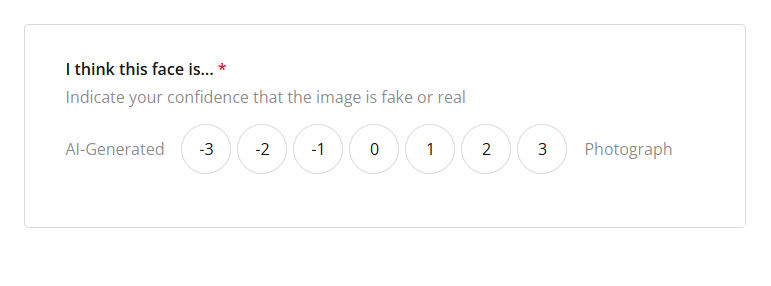
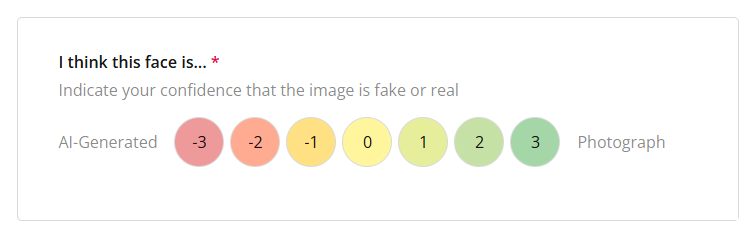
Add color scale
@AnafNeves Added color scale (can be reused for FictionEro)

diff --git a/experiment/index.html b/experiment/index.html
@@ -53,6 +53,28 @@
             .narrow-text {
                 max-width: 50%;
             }
+
+            .colored-scale .sd-rating__item:nth-child(3) {
+                background-color: #ef9a9a;
+            }
+            .colored-scale .sd-rating__item:nth-child(4) {
+                background-color: #ffab91;
+            }
+            .colored-scale .sd-rating__item:nth-child(5) {
+                background-color: #ffe082;
+            }
+            .colored-scale .sd-rating__item:nth-child(6) {
+                background-color: #fff59d;
+            }
+            .colored-scale .sd-rating__item:nth-child(7) {
+                background-color: #e6ee9c;
+            }
+            .colored-scale .sd-rating__item:nth-child(8) {
+                background-color: #c5e1a5;
+            }
+            .colored-scale .sd-rating__item:nth-child(9) {
+                background-color: #a5d6a7;
+            }
         </style>
     </head>
 

diff --git a/experiment/fiction.js b/experiment/fiction.js
@@ -347,6 +347,7 @@ var fiction_showimage2 = {
 
 var fiction_ratings2 = {
     type: jsPsychSurvey,
+    css_classes: ["colored-scale"],
     survey_json: {
         goNextPageAutomatic: true,
         showQuestionNumbers: false,

diff --git a/README.md b/README.md
@@ -4,5 +4,5 @@ Extension and replication of FakeFace
 
 ## Content
 
--   [**Try the experiment**](https://realitybending.github.io/FakeFace2/experiment/index?exp=test)
+-   [**Try the experiment**](https://realitybending.github.io/FakeFace2/experiment/index?exp=README)
 -   [**Data Cleaning**](https://realitybending.github.io/FakeFace2/analysis/1_cleaning.html)
